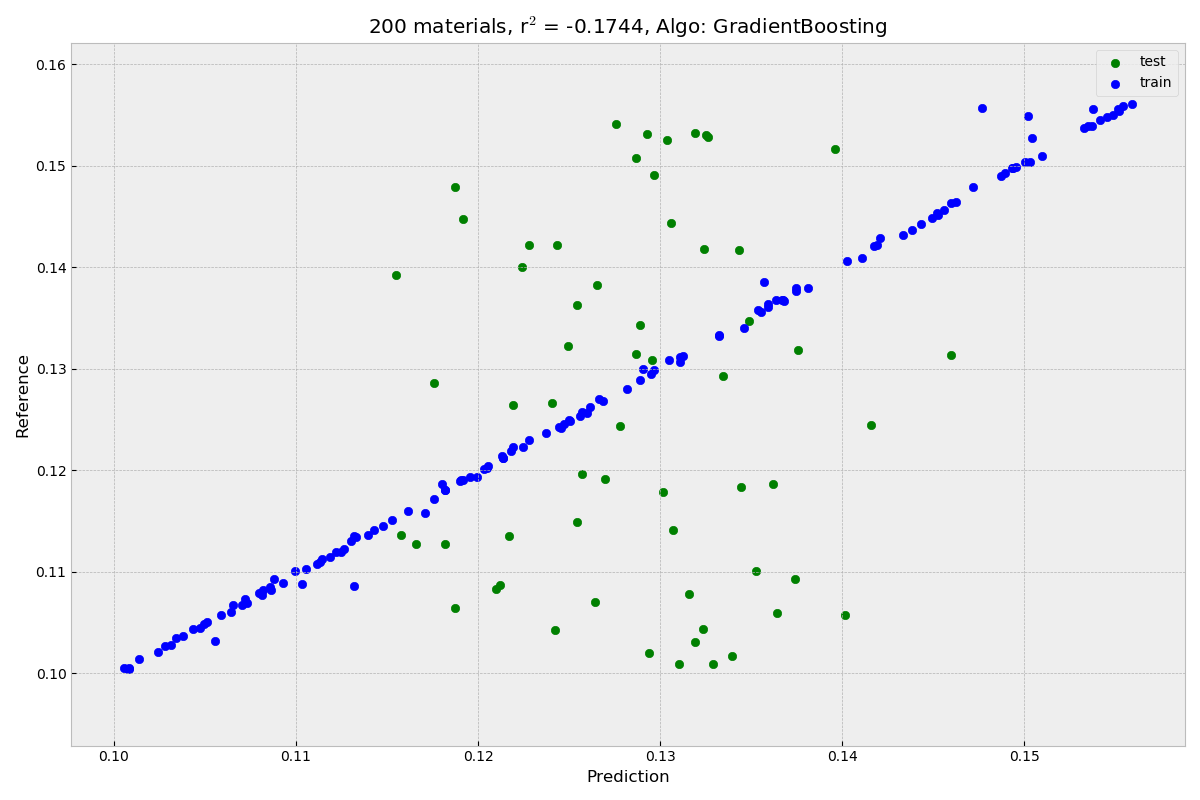
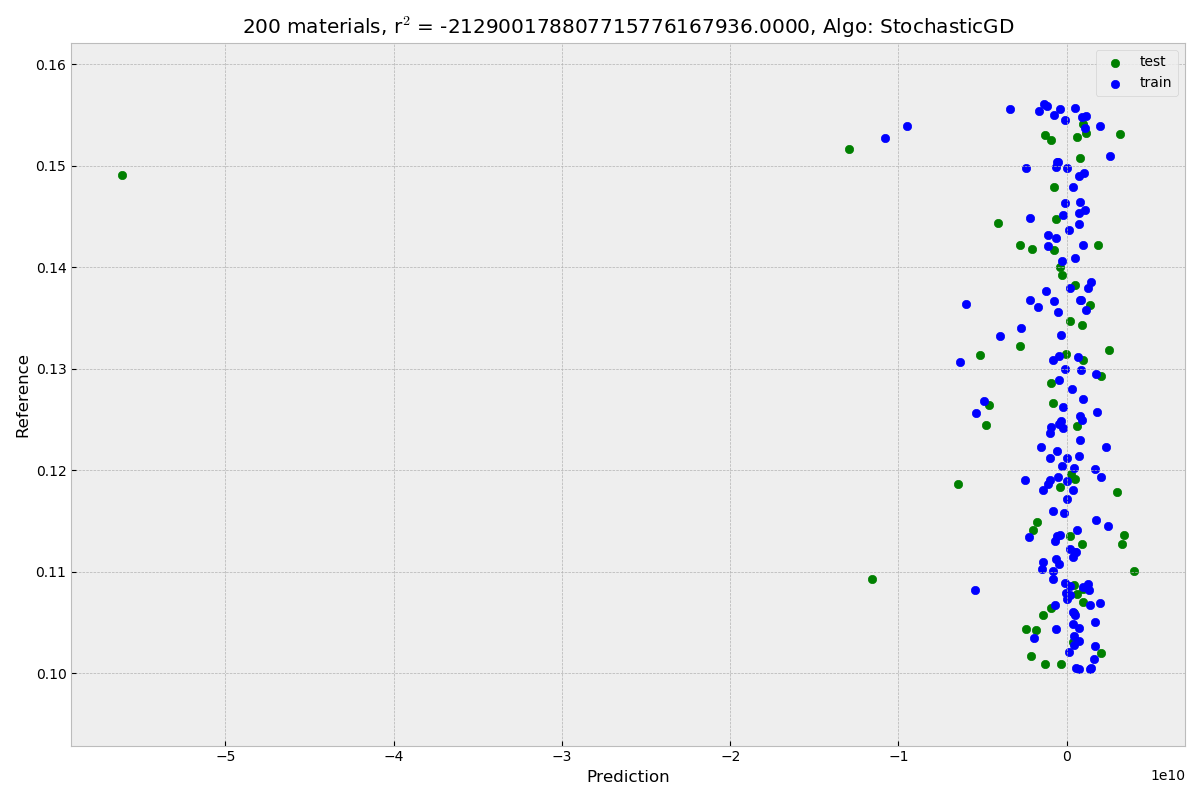
add SGD and RF

diff --git a/ml/method.py b/ml/method.py
@@ -3,6 +3,7 @@ from sklearn.model_selection import train_test_split, GridSearchCV
 from sklearn.kernel_ridge import KernelRidge
 from sklearn.neighbors import KNeighborsRegressor
 from sklearn.ensemble import RandomForestRegressor,GradientBoostingRegressor
+from sklearn.linear_model import SGDRegressor
 from sklearn.feature_selection import VarianceThreshold
 from sklearn.pipeline import Pipeline
 import numpy as np
@@ -26,7 +27,7 @@ class method:
         self.feature = feature
         self.prop = prop
         self.test_size = test_size
-        options = ['KNN', 'KRR', 'GradientBoosting']
+        options = ['KNN', 'KRR', 'GradientBoosting', 'RF', 'StochasticGD']
         self.parameters_level = ['light', 'medium', 'tight']
         self.dict = kwargs
         
@@ -36,6 +37,7 @@ class method:
             
         else:
             print('Warning: The Machine Learning algorithm is not available.')
+
         self.ml()
 
     def read_dict(self):
@@ -93,28 +95,69 @@ class method:
             best_estimator = KernelRidge(alpha = best_alpha, gamma = best_gamma, kernel = best_kernel, kernel_params = None)
             
         elif self.algo == 'GradientBoosting':
-            grid = {'light': {"est__learning_rate": [0.1], "est__n_estimators": [1000], "fs__threshold": [0.0]}, 
-                    'medium': {"est__learning_rate": [0.1], "est__n_estimators": [100, 1500, 3000], "fs__threshold": [0.0]},
-                    'tight': {"est__learning_rate": [0.01, 0.1, 1, 10], "est__n_estimators": [100, 500, 1000, 1500, 2500, 3000, 4000, 5000], "fs__threshold": [0.0, 0.05, 0.1, 0.5]}}
+            grid = {'light': {"GBR__learning_rate": [0.1], "GBR__n_estimators": [1000], "fs__threshold": [0.0]}, 
+                    'medium': {"GBR__learning_rate": [0.1], "GBR__n_estimators": [100, 1500, 3000], "fs__threshold": [0.0]},
+                    'tight': {"GBR__learning_rate": [0.01, 0.1, 1, 10], "GBR__n_estimators": [100, 500, 1000, 1500, 2500, 3000, 4000, 5000], "fs__threshold": [0.0, 0.05, 0.1, 0.5]}}
             self.read_dict()
             if self.level in self.parameters_level:
                 self.GB_grid = grid[self.level]
             else:
                 self.GB_grid = self.dict
 
-            est= GradientBoostingRegressor(loss = 'huber')
+            GBR = GradientBoostingRegressor(loss = 'huber')
             varthres = VarianceThreshold()
-            pipe = Pipeline([("fs", varthres),("est", est)])
+            pipe = Pipeline([("fs", varthres),("GBR", GBR)])
             search = GridSearchCV(pipe, self.GB_grid, cv=10,iid=False, return_train_score=False)
             search.fit(self.X_train,self.Y_train)
             
-            best_learning = search.best_params_['est__learning_rate']
-            best_estimators = search.best_params_['est__n_estimators']
+            best_learning = search.best_params_['GBR__learning_rate']
+            best_estimators = search.best_params_['GBR__n_estimators']
             best_threshold = search.best_params_['fs__threshold']
             
-            best_est = GradientBoostingRegressor(loss='huber', learning_rate = best_learning, n_estimators = best_estimators)
-            best_estimator = Pipeline([("fs", VarianceThreshold(threshold = best_threshold)),("est", best_est)])
+            best_GBR = GradientBoostingRegressor(loss='huber', learning_rate = best_learning, n_estimators = best_estimators)
+            best_estimator = Pipeline([("fs", VarianceThreshold(threshold = best_threshold)),("GBR", best_GBR)])
         
+        elif self.algo == 'RF':
+            grid = {'light': {"RFR__n_estimators": [10], "fs__threshold": [0.01]},
+                    'medium': {"RFR__n_estimators": [10,50,100,1000], "fs_threshold": [0.01]},
+                    'tight': {"RFR__n_estimators": [10, 30, 60, 90, 150, 250, 500, 750, 1000, 2000], "fs_threshold": [0.0, 0.05, 0.1, 0.5]}}
+            self.read_dict()
+            if self.level in self.parameters_level:
+                self.RF_grid = grid[self.level]
+            else:
+                self.RF_grid = self.dict
+
+            RFR = RandomForestRegressor()
+            varthres = VarianceThreshold()
+            pipe = Pipeline([("fs", varthres),("RFR", RFR)])
+            search = GridSearchCV(pipe, self.RF_grid, cv=10,iid=False, return_train_score=False)
+            search.fit(self.X_train,self.Y_train)
+            
+            best_n_estimators = search.best_params_['RFR__n_estimators']
+            best_threshold = search.best_params_['fs__threshold']
+            
+            best_RFR = RandomForestRegressor(n_estimators = best_n_estimators)
+            best_estimator = Pipeline([("fs", VarianceThreshold(threshold = best_threshold)),("RFR", best_RFR)])
+
+        elif self.algo == 'StochasticGD':
+            grid = {'light': {"penalty": ['l2'], "alpha": [0.1], "learning_rate": ['optimal']},
+                    'medium': {"penalty": ['l2'], "alpha": [100, 10, 1, 0.1, 1e-2], "learning_rate": ['optimal']},
+                    'tight': {"penalty": ['l2', 'elasticnet'], "alpha": [1e5, 1e4, 1e3, 100, 10, 1, 0.1, 1e-2, 1e-3, 1e-4, 1e-5], "learning_rate": ['optimal', 'constant', 'invscaling', 'adaptive']}}
+            self.read_dict()
+            if self.level in self.parameters_level:
+                self.SGD_grid = grid[self.level]
+            else:
+                self.SGD_grid = self.dict
+
+            search = GridSearchCV(SGDRegressor(tol = 1e-5), param_grid = self.SGD_grid, cv=10)
+            search.fit(self.X_train,self.Y_train)
+
+            best_penalty = search.best_params_['penalty']
+            best_alpha = search.best_params_['alpha']
+            best_learning_rate = search.best_params_['learning_rate']
+
+            best_estimator = SGDRegressor(tol = 1e-5, penalty = best_penalty, alpha = best_alpha, learning_rate = best_learning_rate)
+
         best_estimator.fit(self.X_train, self.Y_train)
         self.y_predicted = best_estimator.predict(self.X_test)
         self.y_predicted0 = best_estimator.predict(self.X_train)

diff --git a/main.py b/main.py
@@ -10,7 +10,7 @@ warnings.filterwarnings("ignore")
 file = 'datasets/nonmetal_MP_8049.json'
 prop = 'band_gap' #'formation_energy'
 feature = 'RDF'  # 'RDF', 'RDF+ADF', 'all'
-algo = 'GradientBoosting'
+algo = 'StochasticGD'
 parameters = 'light'
 figname = 'test_plot.png'
 N_sample = 200
